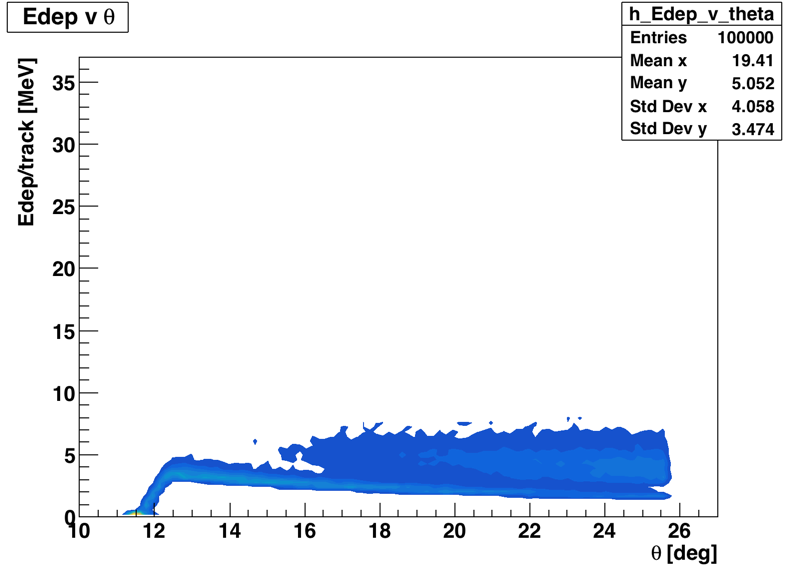
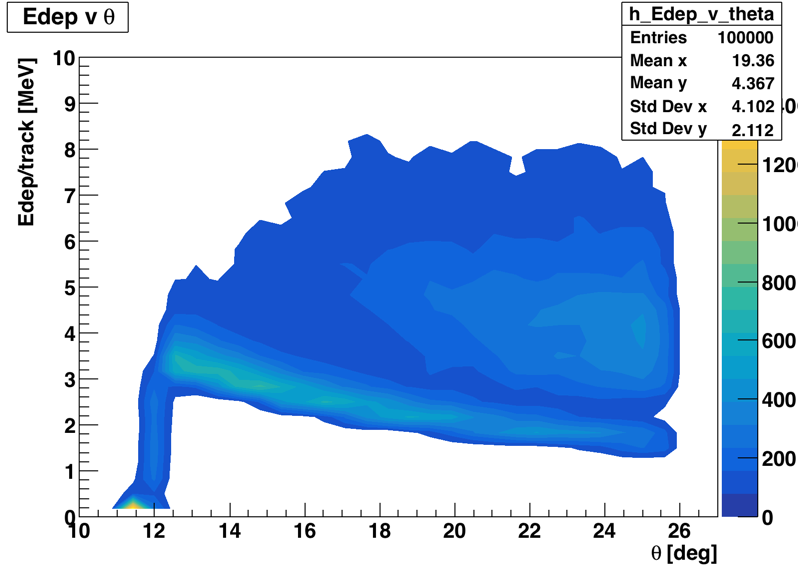
Add E vs theta plot

diff --git a/Eloss.c b/Eloss.c
@@ -59,7 +59,7 @@ void Eloss()
     
     TH2F *h_Edep_v_phi = new TH2F("h_Edep_v_phi","Eloss vs. Phi",100,0,360,100,0,15);
     
-    TH2F *h_Edep_v_theta = new TH2F("h_Edep_v_theta","Eloss vs. Theta",100,0,0,100,0,0);
+    TH2F *h_Edep_v_theta = new TH2F("h_Edep_v_theta","Eloss vs. Theta",30,10,27,30,0,10);
     
     int n=0;
     
@@ -160,11 +160,12 @@ void Eloss()
         
         
         
-        p_tot = TMath::Sqrt((px->at(0)*px->at(0)) + (py->at(0)*py->at(0)));
+        p_tot = TMath::Sqrt((px->at(0)*px->at(0)) + (py->at(0)*py->at(0)) + (pz->at(0)*pz->at(0)));
         phi_track = TMath::ATan2((py->at(0)),(px->at(0)))*(180/PI)+180.0;
-        theta_track = TMath::ATan2(p_tot,pz->at(0))*(180/PI);
+        theta_track = TMath::ACos(pz->at(0)/p_tot)*(180/PI);
         
-        if(totEloss != 0.0) h_eLoss->Fill(totEloss);
+        // if(totEloss != 0.0)
+        h_eLoss->Fill(totEloss);
         h_Edep_v_phi->Fill(phi_track, totEloss);
         h_Edep_v_theta->Fill(theta_track, totEloss);
         
@@ -198,7 +199,7 @@ void Eloss()
     
     // --------------------------- Eloss vs Theta ---------------------------
     c3->cd();
-    h_Edep_v_theta->Draw("CONT");
+    h_Edep_v_theta->Draw("CONTZ");
     h_Edep_v_theta->SetTitle("Edep v #theta");
     //h_Edep_v_theta->SetLineColor(kBlue);
     h_Edep_v_theta->GetXaxis()->SetTitle("#theta [deg]");
